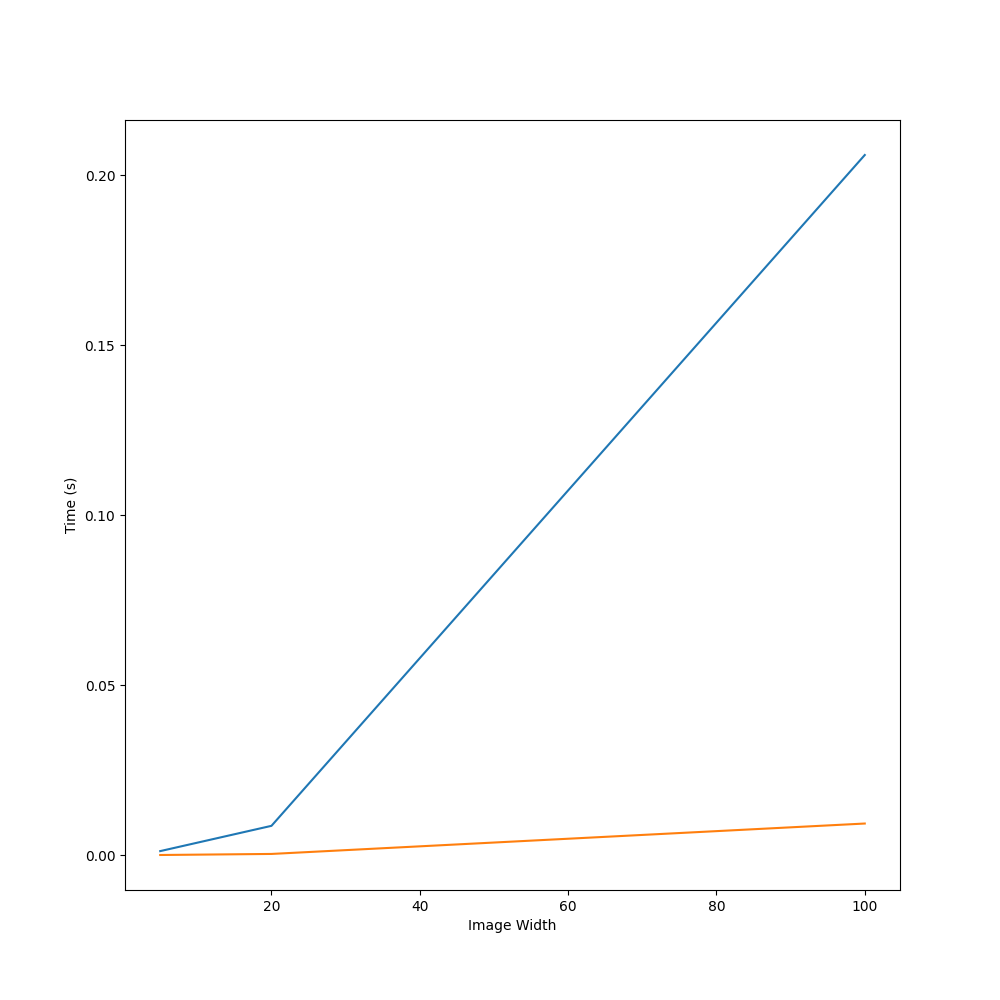
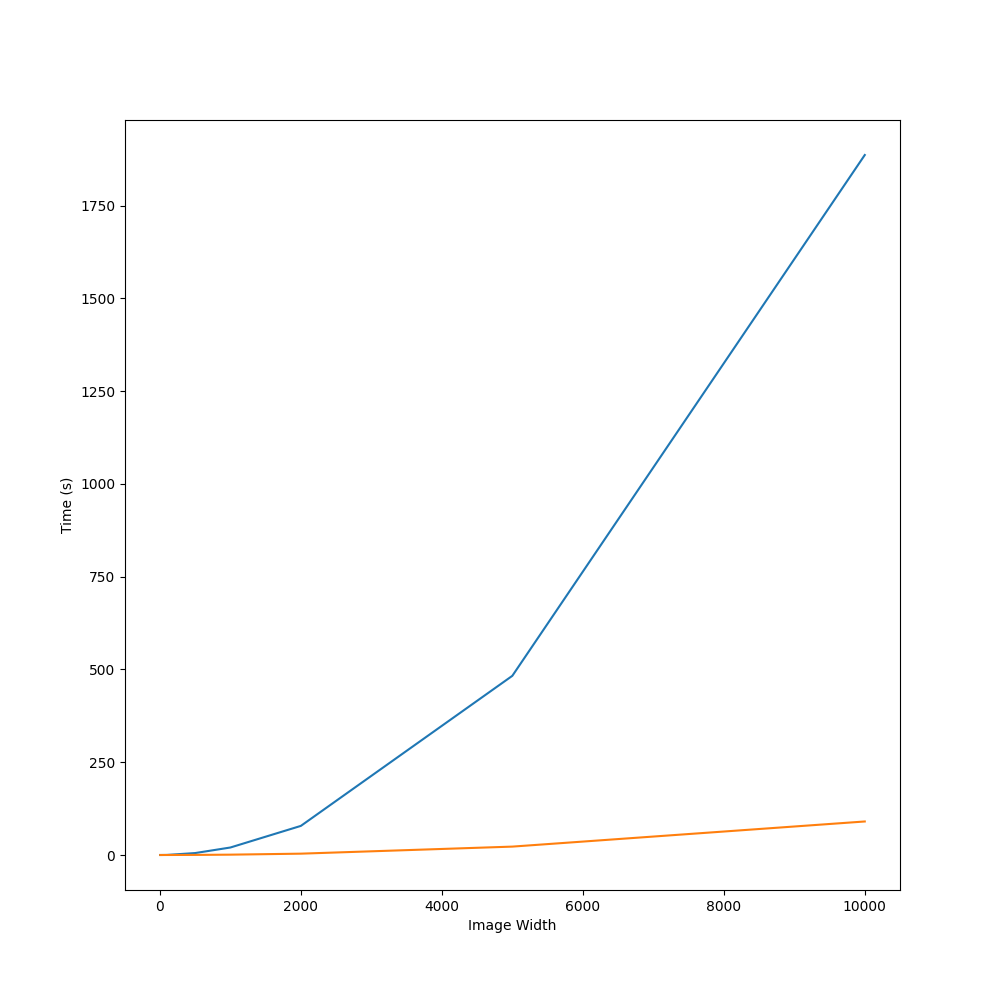
done

diff --git a/ray_tracing.py b/ray_tracing.py
@@ -80,7 +80,6 @@ def run(w, h):
             if col is None:
                 continue
             img[h - j - 1, i, :] = np.clip(col, 0, 1)
-    print(img)
     return img
 
 
@@ -90,8 +89,8 @@ def main():
     import raytracer
     times_run = []
     times_cpp = []
-    ws = [5,20,100]
-    hs = [5,20,100]
+    ws = [5,20,100, 500, 1000, 2000, 5000, 10000]
+    hs = [5,20,100, 500, 1000, 2000, 5000, 10000]
     for w, h in zip(ws, hs):
         start = time.time()
         img = run(w, h)
